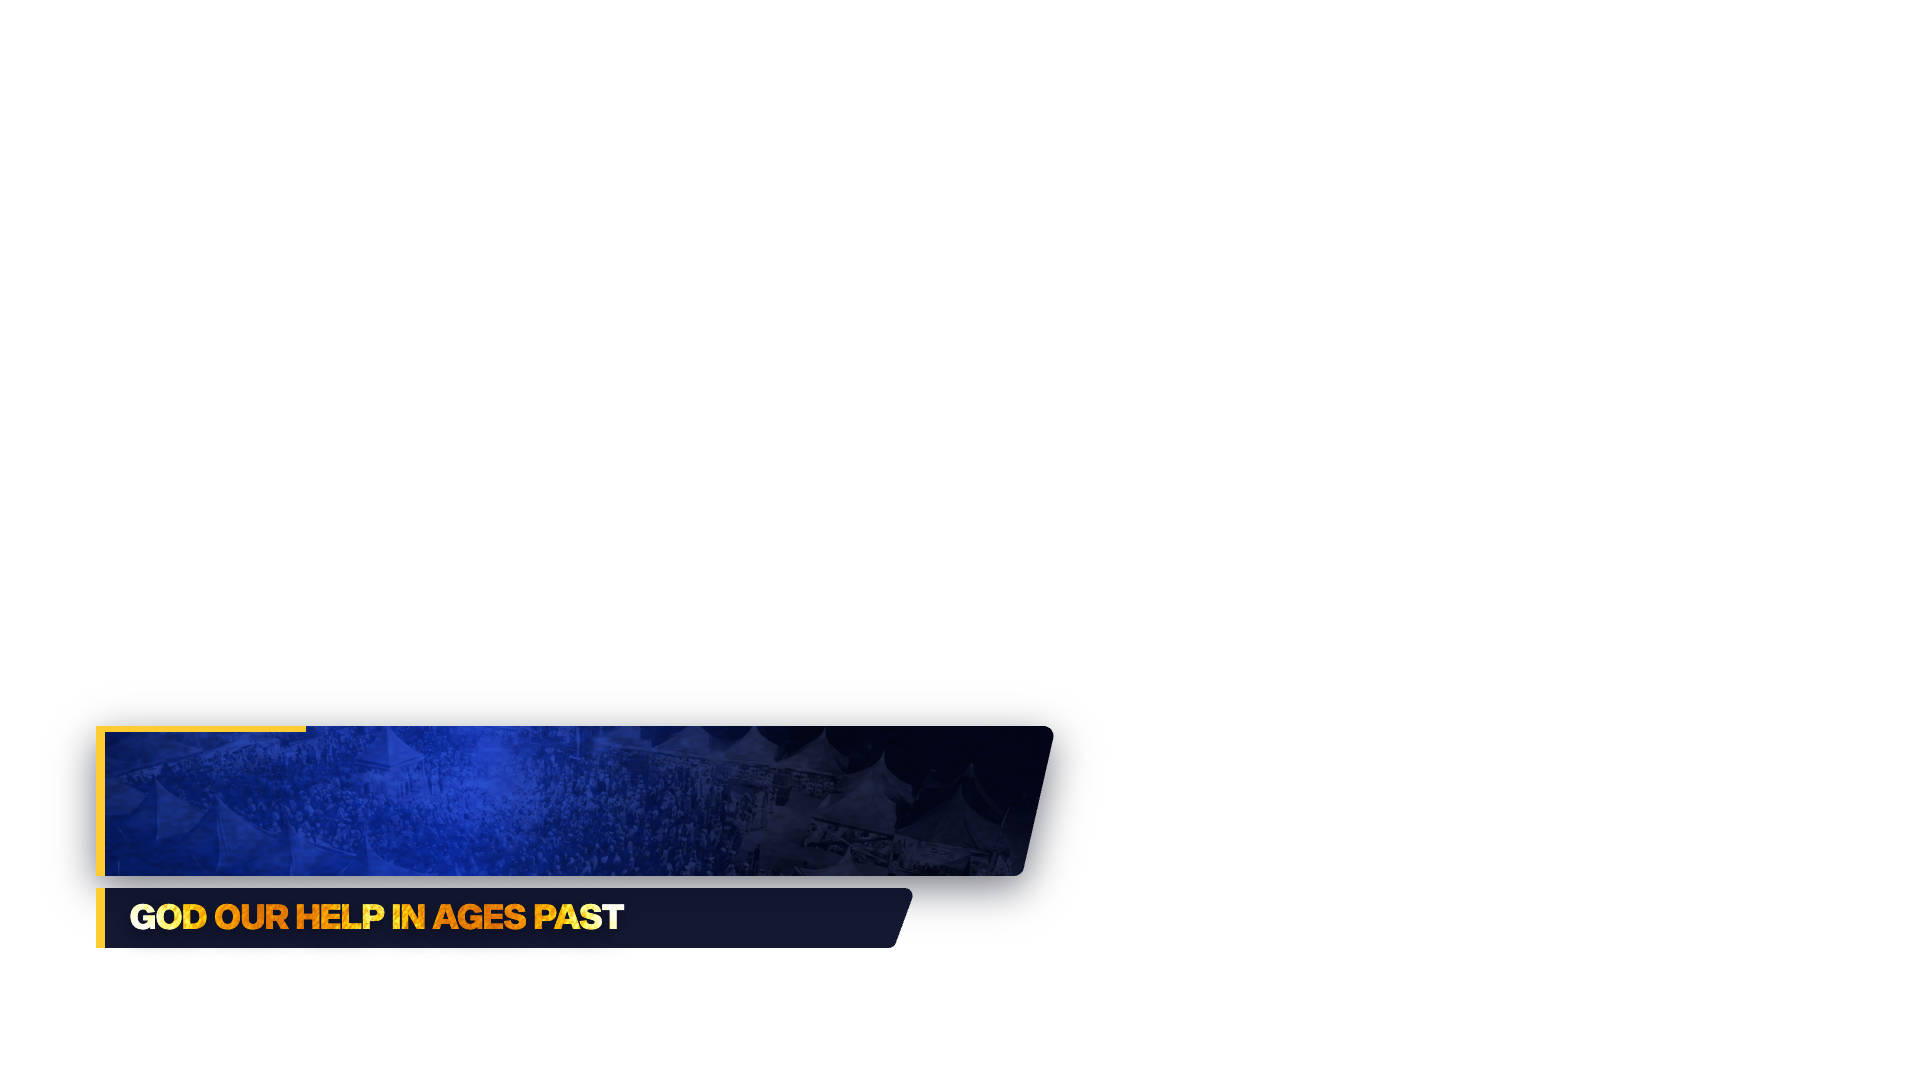
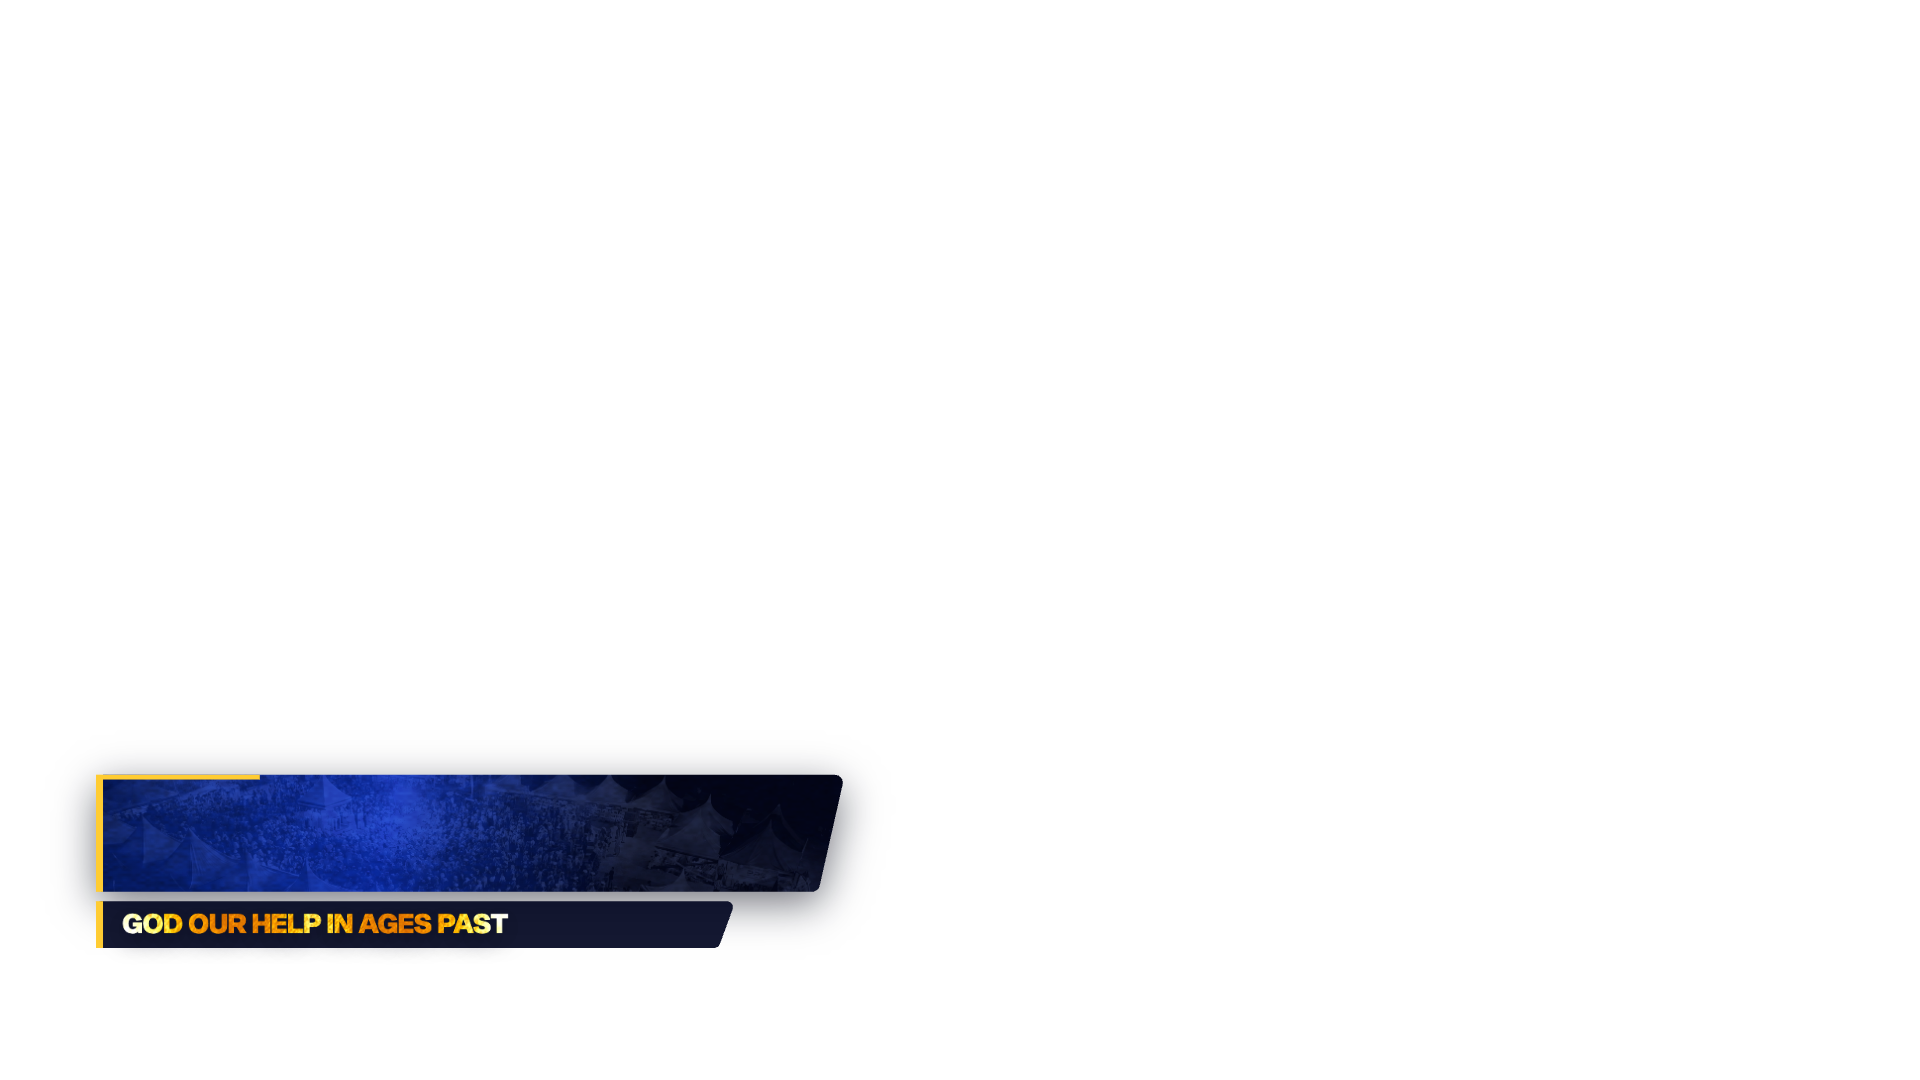
fix: a reconnect stops teaching the desk about only one screen
This is the ACTIVE → READY drop, and the two reports are one fault.

The relay snapshot kept ONE `status` slot — the latest OUTPUT_STATUS from
any output. Written when there was a single browser source, and never
revisited when Program's own `outputs` became a map keyed by session id.
With several sources heart-beating every 15s, the retained status is
simply whoever spoke last.

A control page that reloads, or an EventSource that drops and comes back,
rebuilds its entire picture of the rig from that replay. It learned about
exactly one screen, chosen by the timing of a heartbeat. When that screen
was a page with no OBS binding, `worstOutput` had nothing carrying to
pick from, the weakest spoke, and the pill fell from OUTPUT ACTIVE to
OUTPUT READY — with no UNVERIFIED in between, because the page it settled
on was perfectly fresh. It flipped back when the real source's next
heartbeat arrived, which is why it reads as the status inventing things.

An unstable relay is what makes an EventSource reconnect, so "relay seems
unstable" and "the status hallucinates" were the same event seen twice.

Statuses are per output session id now, replayed oldest-first, pruned at
five minutes to match OUTPUT_FORGET_MS. Verified against a running relay:
a fresh /events subscriber receives obs-main sourceActive=true alongside
the unbound page, where before it received only the unbound page.

`/health` reports a screen count instead of a boolean, because one
[…]

Changed region(s): [[0.0312, 0.6417, 0.5625, 0.8861]]

diff --git a/src/lib/relaySnapshot.test.ts b/src/lib/relaySnapshot.test.ts
@@ -46,6 +46,82 @@ const status = (timestamp: number): RealtimeMessage => ({
   timestamp
 });
 
+const statusFrom = (
+  outputId: string,
+  timestamp: number,
+  sourceActive: boolean | null
+): RealtimeMessage => ({
+  id: `st-${outputId}-${timestamp}`,
+  type: 'OUTPUT_STATUS',
+  payload: { outputId, sourceActive, sourceVisible: sourceActive === null ? null : true },
+  timestamp
+});
+
+describe('every screen survives a reconnect, not just the last one to speak', () => {
+  it('replays a status for EACH output session', () => {
+    /**
+     * THE DEFECT, and it is the missed half of a fix the brief called out:
+     * Program's `outputs` became a map keyed by session id when a second
+     * browser source appeared, and this snapshot stayed a single `status` slot
+     * holding whoever spoke last.
+     *
+     * A control page that reloads — or an EventSource that drops and comes
+     * back, which is what an unstable relay looks like — rebuilds its whole
+     * picture of the rig from this replay. With one slot it learned about
+     * exactly ONE screen, chosen by the timing of a 15-second heartbeat. If
+     * that screen was a page with no OBS binding, the desk read OUTPUT READY
+     * while a source was plainly active, and flipped back when the real
+     * source's next heartbeat arrived.
+     */
+    let s = createRelaySnapshot();
+    s = reduceRelaySnapshot(s, statusFrom('obs-main', T0, true), T0);
+    s = reduceRelaySnapshot(s, statusFrom('preview-tab', T0 + 1_000, null), T0 + 1_000);
+
+    const replayed = snapshotReplay(s).filter((m) => m.type === 'OUTPUT_STATUS');
+    expect(replayed.map((m) => (m.payload as { outputId: string }).outputId).sort()).toEqual([
+      'obs-main',
+      'preview-tab'
+    ]);
+    // The measuring source's reading is still in there — that is the whole point.
+    const main = replayed.find((m) => (m.payload as { outputId: string }).outputId === 'obs-main');
+    expect((main!.payload as { sourceActive: boolean }).sourceActive).toBe(true);
+  });
+
+  it('keeps one entry per session however long the rig runs', () => {
+    let s = createRelaySnapshot();
+    for (let i = 0; i < 40; i += 1) {
+      s = reduceRelaySnapshot(s, statusFrom('obs-main', T0 + i * 15_000, true), T0 + i * 15_000);
+    }
+    expect(snapshotReplay(s).filter((m) => m.type === 'OUTPUT_STATUS')).toHaveLength(1);
+  });
+
+  it('forgets a session that has been silent for five minutes', () => {
+    /**
+     * Every page load mints a new session id, so a refreshed browser source
+     * leaves its predecessor behind. Without pruning, a fortnight of restarts
+     * replays a crowd of dead screens to every reconnecting client.
+     */
+    let s = createRelaySnapshot();
+    s = reduceRelaySnapshot(s, statusFrom('old-session', T0, true), T0);
+    s = reduceRelaySnapshot(s, statusFrom('live-session', T0 + 301_000, true), T0 + 301_000);
+    const ids = snapshotReplay(s)
+      .filter((m) => m.type === 'OUTPUT_STATUS')
+      .map((m) => (m.payload as { outputId: string }).outputId);
+    expect(ids).toEqual(['live-session']);
+  });
+
+  it('replays the looks and the command before any status', () => {
+    // Unchanged contract: a reconnecting output must know how it paints and
+    // what it is painting before it hears about anyone's source state.
+    let s = createRelaySnapshot();
+    s = reduceRelaySnapshot(s, statusFrom('obs-main', T0, true), T0);
+    s = reduceRelaySnapshot(s, show('cmd-A', T0 + 10), T0 + 10);
+    s = reduceRelaySnapshot(s, statusFrom('split', T0 + 20, false), T0 + 20);
+    const types = snapshotReplay(s).map((m) => m.type);
+    expect(types.indexOf('SHOW_GRAPHIC')).toBeLessThan(types.indexOf('OUTPUT_STATUS'));
+  });
+});
+
 describe('a status event can never displace the command', () => {
   it('keeps the command through any number of heartbeats, and a reconnect replays it first', () => {
     let s = createRelaySnapshot();

diff --git a/src/lib/scriptureOutputs.test.ts b/src/lib/scriptureOutputs.test.ts
@@ -13,6 +13,7 @@ import {
 } from './scriptureOutputs';
 import { templateRegistry } from '../components/templates/registry';
 import { reduceRealtimeMessage } from './programSync';
+import type { RealtimeMessage } from '../types/graphics';
 import { parseRealtimeMessage } from './realtimeMessages';
 import { CLEAR_PROGRAM_STATE } from '../types/program';
 
@@ -403,12 +404,44 @@ describe('the mapping on the wire', () => {
     expect(control).toMatch(/\}, \[scriptureOutputs\]\)/);
   });
 
-  it('is retained by the relay in its own slot, ahead of the command', () => {
-    // Its own slot because a burst of commands must not evict the only copy a
-    // cross-browser output will ever see; ahead of the command so a restored
-    // card is painted the way this screen is configured from the first frame.
-    const relay = read('scripts/relay-snapshot.mjs');
-    expect(relay).toMatch(/scriptureOutputs: message/);
-    expect(relay).toMatch(/\[snapshot\.scriptureOutputs, snapshot\.command, snapshot\.ack, snapshot\.status\]/);
+  it('is retained by the relay in its own slot, ahead of the command', async () => {
+    /**
+     * Its own slot because a burst of commands must not evict the only copy a
+     * cross-browser output will ever see; ahead of the command so a restored
+     * card is painted the way this screen is configured from the first frame.
+     *
+     * DRIVEN, not pattern-matched. This asserted the literal replay array as a
+     * string and broke the moment the status slot became per-output — telling
+     * me the source had been edited, which I knew, rather than whether the
+     * ordering it exists to protect still held. Same guarantee, immune to how
+     * the array is written.
+     */
+    const { createRelaySnapshot, reduceRelaySnapshot, snapshotReplay } = await import(
+      '../../scripts/relay-snapshot.mjs'
+    );
+    const at = 5_000_000;
+    const envelope = (type: string, payload: unknown, id: string) =>
+      ({ id, type, payload, timestamp: at }) as unknown as RealtimeMessage;
+    let snapshot = createRelaySnapshot();
+    // Deliberately published FIRST and buried under later traffic — the order
+    // under test is the replay's, not the arrival's.
+    snapshot = reduceRelaySnapshot(snapshot, envelope('SET_SCRIPTURE_OUTPUTS', DEFAULT_SCRIPTURE_OUTPUTS, 'so-1'), at);
+    snapshot = reduceRelaySnapshot(
+      snapshot,
+      envelope('OUTPUT_STATUS', { outputId: 'out-1', sourceActive: true, sourceVisible: true }, 'st-1'),
+      at + 10
+    );
+    snapshot = reduceRelaySnapshot(
+      snapshot,
+      envelope('SHOW_GRAPHIC', { id: 'g', templateId: 'scripture-card', values: {}, theme: {} }, 'cmd-1'),
+      at + 20
+    );
+
+    const types = snapshotReplay(snapshot).map((message: { type: string }) => message.type);
+    expect(types[0]).toBe('SET_SCRIPTURE_OUTPUTS');
+    expect(types.indexOf('SET_SCRIPTURE_OUTPUTS')).toBeLessThan(types.indexOf('SHOW_GRAPHIC'));
+    expect(types.indexOf('SHOW_GRAPHIC')).toBeLessThan(types.indexOf('OUTPUT_STATUS'));
+    // And it survives being buried, which is what "its own slot" buys.
+    expect(read('scripts/relay-snapshot.mjs')).toMatch(/scriptureOutputs: message/);
   });
 });
